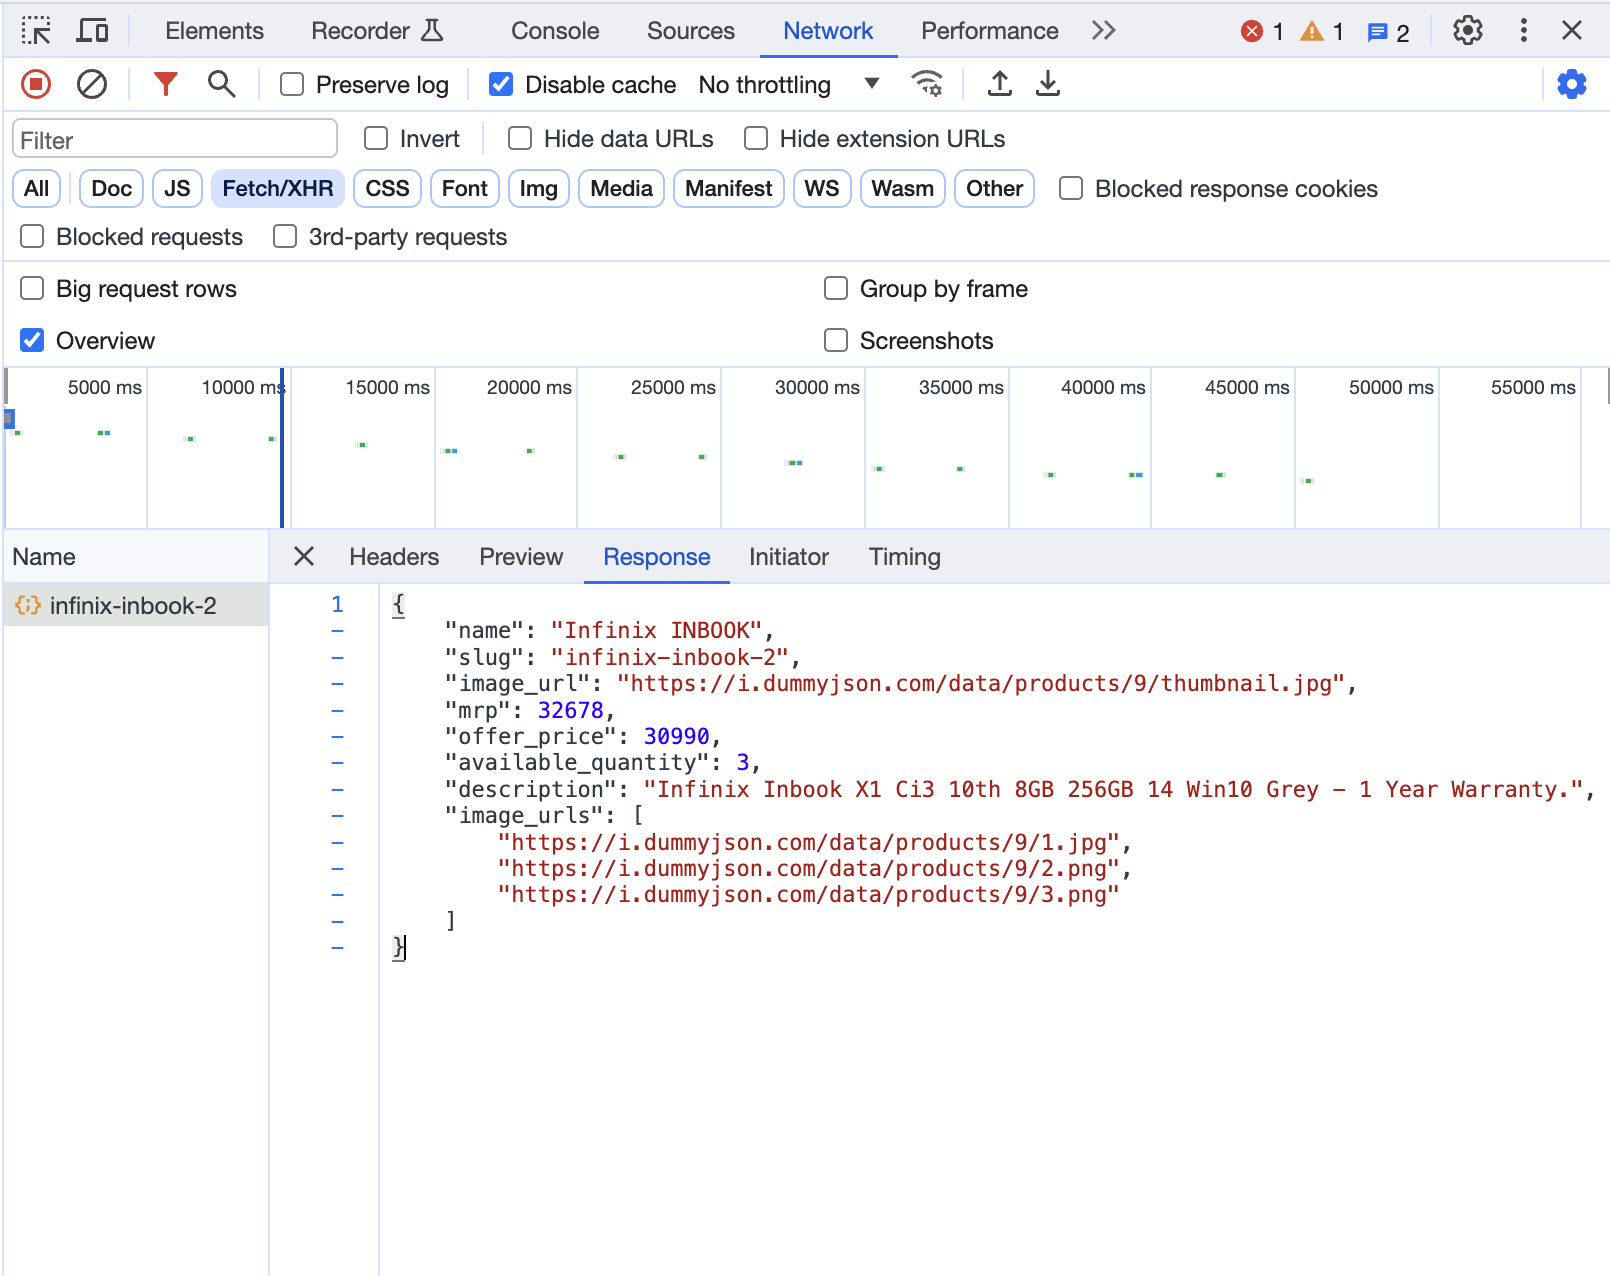
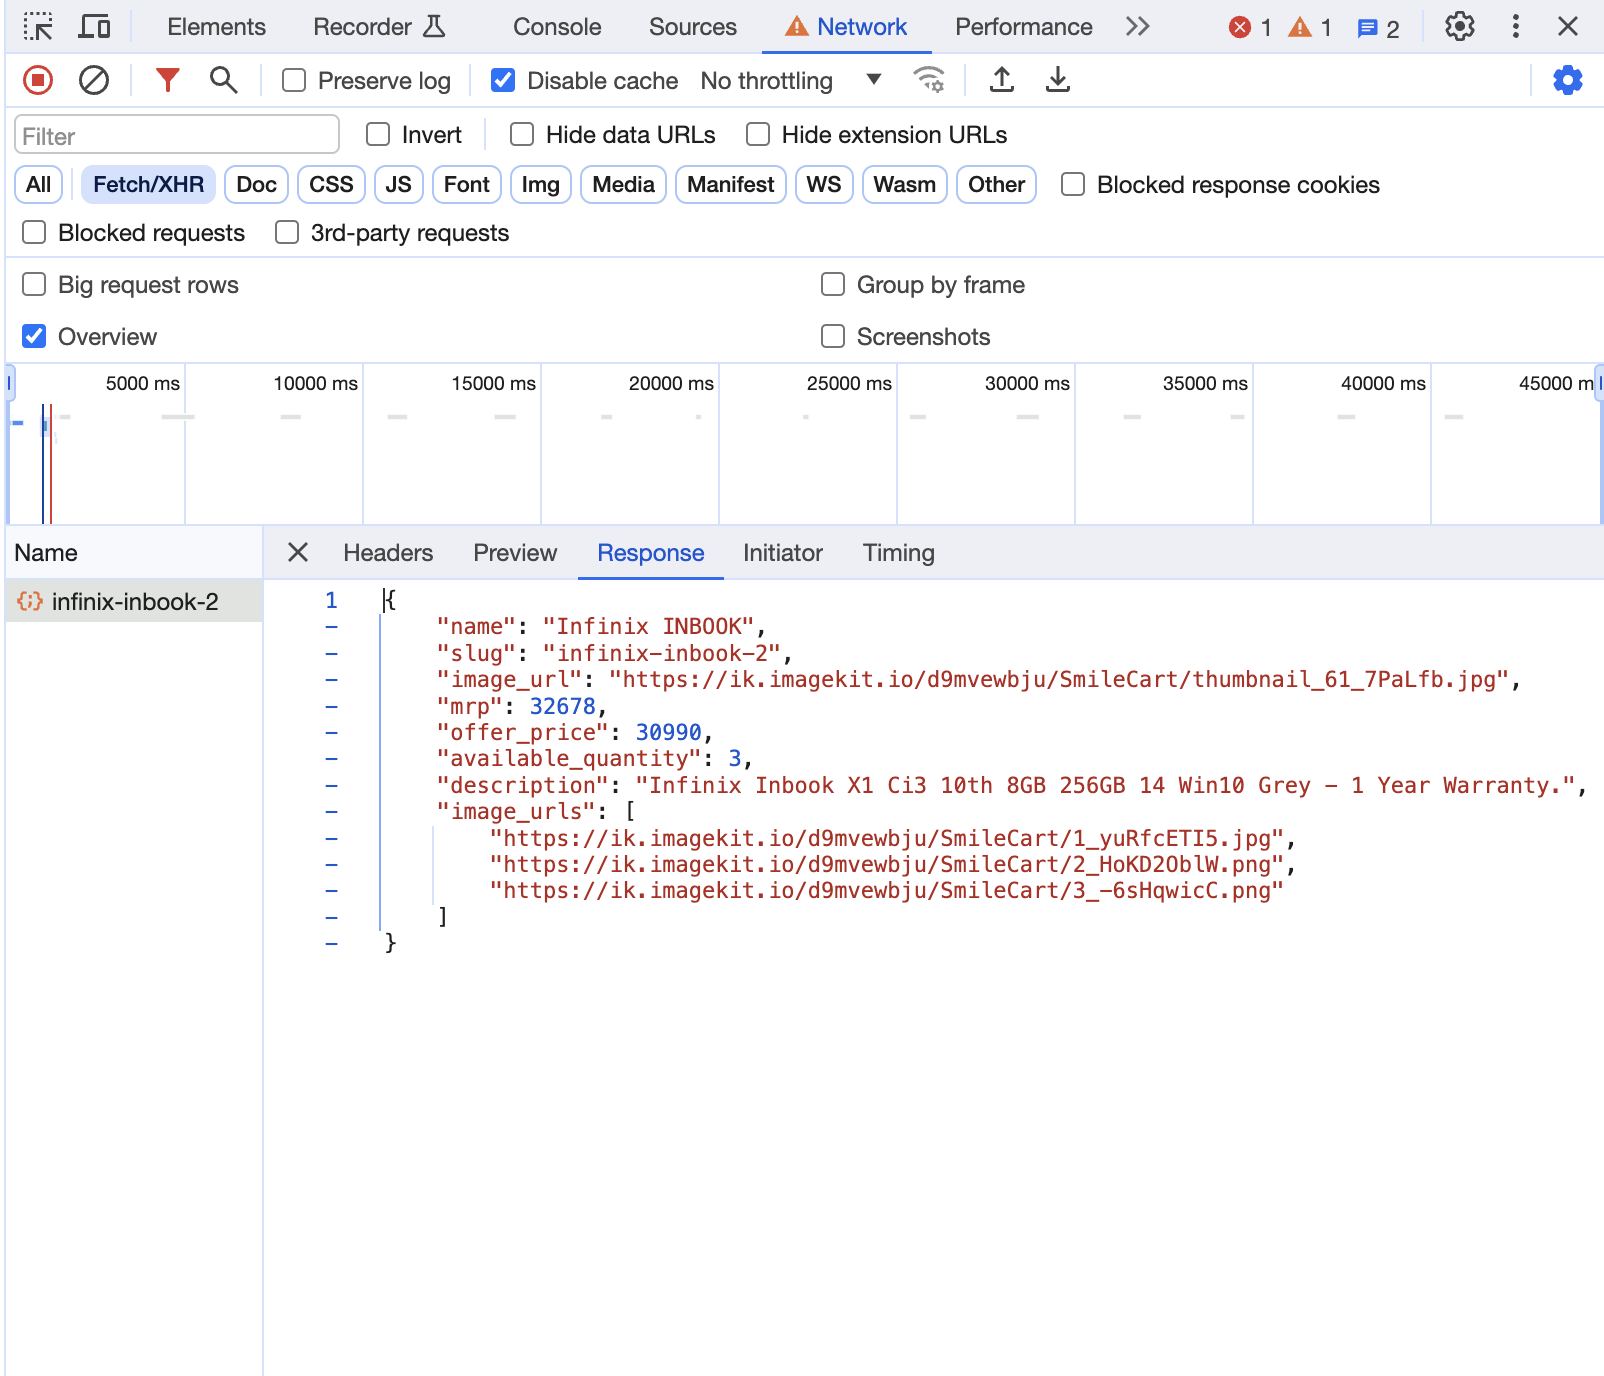
Fixed broken image urls (#1942)

diff --git a/courses/learn-react/chapters/0090-state-and-event-handling/pages/0010-adding-a-carousel-component.md b/courses/learn-react/chapters/0090-state-and-event-handling/pages/0010-adding-a-carousel-component.md
@@ -64,19 +64,19 @@ const Carousel = ({ imageUrls, title }) => (
 
 We can use this component inside our `Product` component to display a Carousel. For that, we need a set of images. We can use some dummy images from the internet for the same:
 
-- https://i.dummyjson.com/data/products/9/thumbnail.jpg
-- https://i.dummyjson.com/data/products/9/1.jpg
-- https://i.dummyjson.com/data/products/9/2.png
-- https://i.dummyjson.com/data/products/9/3.png
+- https://ik.imagekit.io/d9mvewbju/SmileCart/thumbnail_61_7PaLfb.jpg
+- https://ik.imagekit.io/d9mvewbju/SmileCart/1_yuRfcETI5.jpg
+- https://ik.imagekit.io/d9mvewbju/SmileCart/2_HoKD2OblW.png
+- https://ik.imagekit.io/d9mvewbju/SmileCart/3_-6sHqwicC.png
 
 Let us create a constant array of these URLs. At Bigbinary, we follow the convention of naming constants in `UPPER_SNAKE_CASE` and grouping them within a file `constants.js`. Following this convention, let's create a `constants.js` file within `src/components` and place the above URLs into an array:
 
 ```js
 export const IMAGE_URLS = [
-  "https://i.dummyjson.com/data/products/9/thumbnail.jpg",
-  "https://i.dummyjson.com/data/products/9/1.jpg",
-  "https://i.dummyjson.com/data/products/9/2.png",
-  "https://i.dummyjson.com/data/products/9/3.png",
+  "https://ik.imagekit.io/d9mvewbju/SmileCart/thumbnail_61_7PaLfb.jpg",
+  "https://ik.imagekit.io/d9mvewbju/SmileCart/1_yuRfcETI5.jpg",
+  "https://ik.imagekit.io/d9mvewbju/SmileCart/2_HoKD2OblW.png",
+  "https://ik.imagekit.io/d9mvewbju/SmileCart/3_-6sHqwicC.png"
 ];
 ```
 

diff --git a/courses/learn-react/chapters/0110-http-requests-with-axios/pages/0020-integrate-axios-to-smile-cart.md b/courses/learn-react/chapters/0110-http-requests-with-axios/pages/0020-integrate-axios-to-smile-cart.md
@@ -138,15 +138,15 @@ This is how data in the product state looks like:
     name: "Infinix INBOOK",
     slug: "infinix-inbook-2",
     available_quantity: 5,
-    image_url: "https://i.dummyjson.com/data/products/9/thumbnail.jpg",
+    image_url: "https://ik.imagekit.io/d9mvewbju/SmileCart/thumbnail_61_7PaLfb.jpg",
     mrp: 32678,
     offer_price: 30990,
     description:
       "Infinix Inbook X1 Ci3 10th 8GB 256GB 14 Win10 Grey - 1 Year Warranty.",
     image_urls: [
-        "https://i.dummyjson.com/data/products/9/1.jpg",
-        "https://i.dummyjson.com/data/products/9/2.png",
-        "https://i.dummyjson.com/data/products/9/3.png"
+        "https://ik.imagekit.io/d9mvewbju/SmileCart/1_yuRfcETI5.jpg",
+        "https://ik.imagekit.io/d9mvewbju/SmileCart/2_HoKD2OblW.png",
+        "https://ik.imagekit.io/d9mvewbju/SmileCart/3_-6sHqwicC.png"
     ]
 }
 ```

diff --git a/courses/learn-react/chapters/0090-state-and-event-handling/pages/0020-significance-of-state-in-react.md b/courses/learn-react/chapters/0090-state-and-event-handling/pages/0020-significance-of-state-in-react.md
@@ -62,10 +62,10 @@ const Carousel = () => {
 };
 
 const IMAGE_URLS = [
-  "https://i.dummyjson.com/data/products/9/thumbnail.jpg",
-  "https://i.dummyjson.com/data/products/9/1.jpg",
-  "https://i.dummyjson.com/data/products/9/2.png",
-  "https://i.dummyjson.com/data/products/9/3.png",
+  "https://ik.imagekit.io/d9mvewbju/SmileCart/thumbnail_61_7PaLfb.jpg",
+  "https://ik.imagekit.io/d9mvewbju/SmileCart/1_yuRfcETI5.jpg",
+  "https://ik.imagekit.io/d9mvewbju/SmileCart/2_HoKD2OblW.png",
+  "https://ik.imagekit.io/d9mvewbju/SmileCart/3_-6sHqwicC.png"
 ];
 
 export default Carousel;

diff --git a/courses/learn-react/chapters/0080-setting-up-smilecart/pages/0030-tailwind-css.md b/courses/learn-react/chapters/0080-setting-up-smilecart/pages/0030-tailwind-css.md
@@ -146,7 +146,7 @@ const Product = () => (
       <div className="w-2/5">
         <img
           alt="Product"
-          src="https://i.dummyjson.com/data/products/9/thumbnail.jpg"
+          src="https://ik.imagekit.io/d9mvewbju/SmileCart/thumbnail_61_7PaLfb.jpg"
           className="w-10/12 h-64"
         />
       </div>
